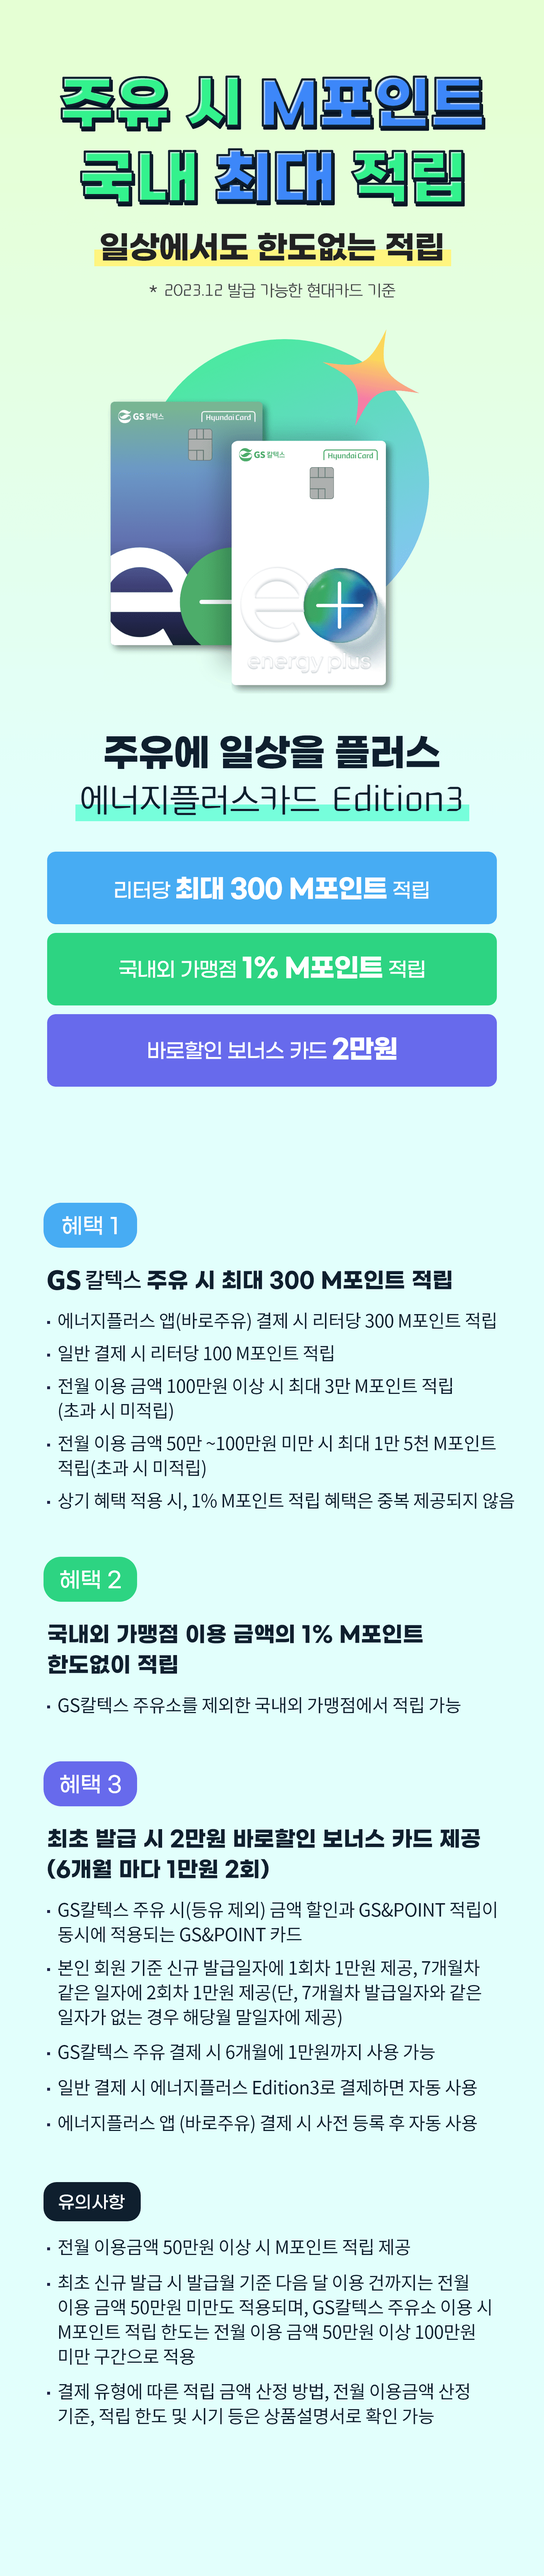
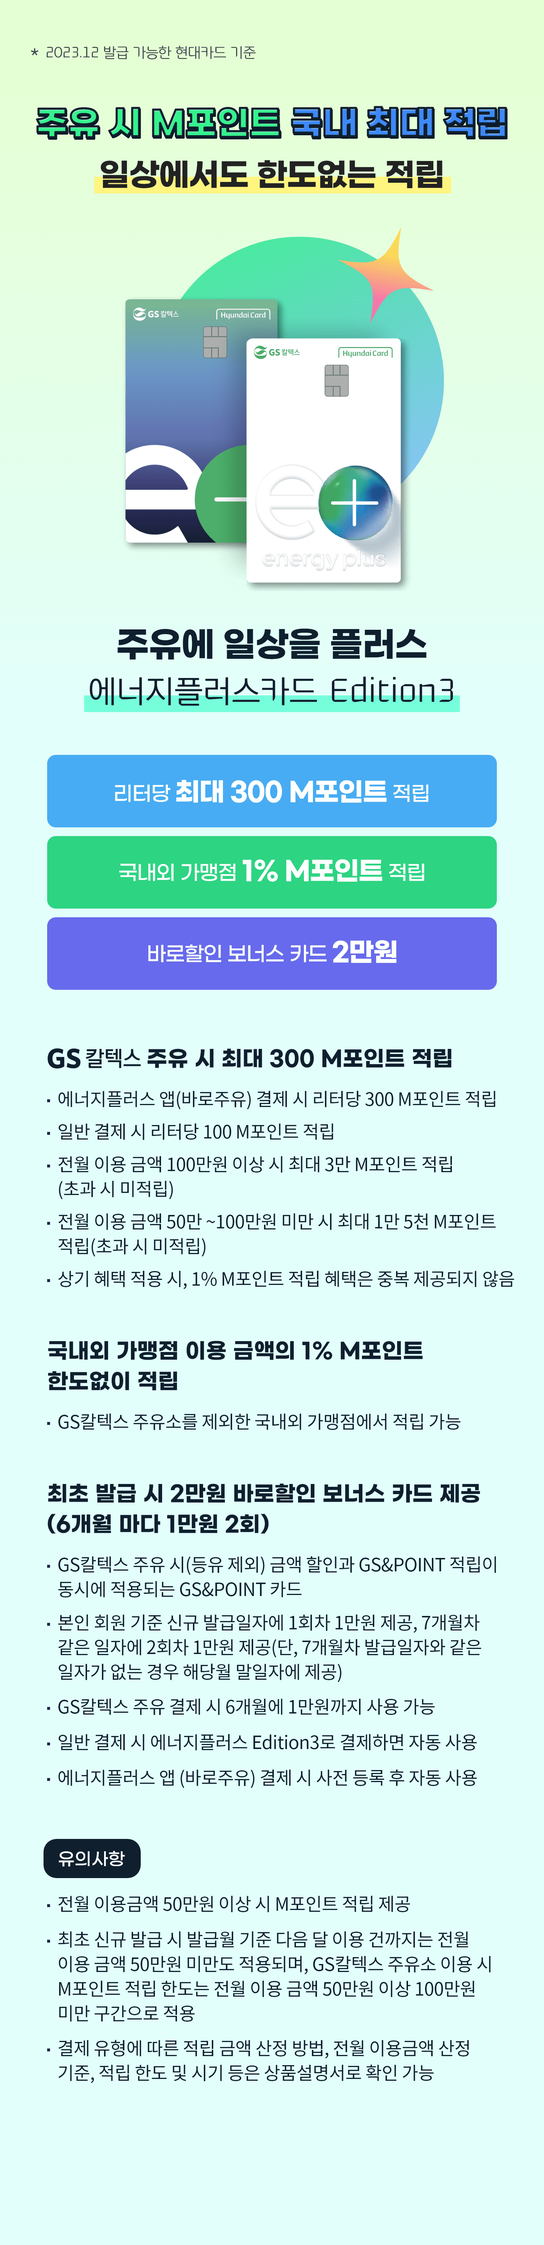
수정요청(이미지,문구)

Changed region(s): [[0.0613, 0.0, 0.9507, 0.9351]]

diff --git a/webapp/src/html/event-ep-card-edition3-promotion.html b/webapp/src/html/event-ep-card-edition3-promotion.html
@@ -38,6 +38,7 @@
                 </div>
             </div>
         </section>
+        <!-- 아코디언 -->
         <script>
             var acc = document.getElementsByClassName("accordion-title");
             var i;
@@ -57,7 +58,7 @@
         <section class="bottom">
             <p class="title"><img src="./images/event_cardedition3_bottom_title.png" alt="확인해 주세요!"></p>
             <ul class="notice">
-                <li>에너지플러스카드 Edition2 연회비 : <br>국내전용/국내외겸용(VISA Platinum) 3만원</li>
+                <li>에너지플러스카드 Edition3 연회비 : <br>국내전용/국내외겸용(VISA Platinum) 3만원</li>
                 <li class="bold">카드 이용대금 연체 시 약정금리+연체가산 금리 3%의 연체이자율이 적용됩니다.<br>(회원별, 이용 상품별 차등 적용/법정 최고 금리 20% 이내)</li>
                 <li class="bold">단, 연체 발생시점에 약정금리가 없는 경우 아래와 같이 적용
                     <ul class="notice depth2">
@@ -77,8 +78,8 @@
                 <li>GS칼텍스는 금융관계법률에 따라 현대카드와 위탁계약을 체결한 금융상품판매대리·중개업자입니다.</li>
                 <li>자세한 내용 및 이용 조건은 카드 신청 전 현대카드 홈페이지 및 상품설명서, 약관 참고</li>
                 <li>현대카드 고객센터(1577-6000)</li>
-                <li>준법감시 심의필 제 231130-032호<br>(2023.11.30~2024.11.29)</li>
-                <li>여신금융협회 심의필 제2023-C1h-13322호<br>(2023.12.07~2024.12.06)</li>
+                <li>준법감시 심의필 제 231215-007호<br>(2023.12.15 ~ 2024.12.14)</li>
+                <li>여신금융협회 심의필 제2023-C1h-13795호<br>(2023.12.20 ~ 2024.12.19)</li>
         </section>
         <div class="event-button-fixed">
             <a href="#" class="event-button"><img src="./images/event_cardedition3_promotion_btn.png" alt=""></a>

diff --git a/webapp/src/html/event-ep-card-edition3-promotion-modal.html b/webapp/src/html/event-ep-card-edition3-promotion-modal.html
@@ -58,7 +58,7 @@
         <section class="bottom">
             <p class="title"><img src="./images/event_cardedition3_bottom_title.png" alt="확인해 주세요!"></p>
             <ul class="notice">
-                <li>에너지플러스카드 Edition2 연회비 : <br>국내전용/국내외겸용(VISA Platinum) 3만원</li>
+                <li>에너지플러스카드 Edition3 연회비 : <br>국내전용/국내외겸용(VISA Platinum) 3만원</li>
                 <li class="bold">카드 이용대금 연체 시 약정금리+연체가산 금리 3%의 연체이자율이 적용됩니다.<br>(회원별, 이용 상품별 차등 적용/법정 최고 금리 20% 이내)</li>
                 <li class="bold">단, 연체 발생시점에 약정금리가 없는 경우 아래와 같이 적용
                     <ul class="notice depth2">
@@ -78,8 +78,8 @@
                 <li>GS칼텍스는 금융관계법률에 따라 현대카드와 위탁계약을 체결한 금융상품판매대리·중개업자입니다.</li>
                 <li>자세한 내용 및 이용 조건은 카드 신청 전 현대카드 홈페이지 및 상품설명서, 약관 참고</li>
                 <li>현대카드 고객센터(1577-6000)</li>
-                <li>준법감시 심의필 제 231130-032호<br>(2023.11.30~2024.11.29)</li>
-                <li>여신금융협회 심의필 제2023-C1h-13322호<br>(2023.12.07~2024.12.06)</li>
+                <li>준법감시 심의필 제 231215-007호<br>(2023.12.15 ~ 2024.12.14)</li>
+                <li>여신금융협회 심의필 제2023-C1h-13795호<br>(2023.12.20 ~ 2024.12.19)</li>
         </section>
         <div class="event-button-fixed">
             <a href="#" class="event-button"><img src="./images/event_cardedition3_promotion_btn.png" alt=""></a>

diff --git a/webapp/src/html/include/bottom-sheet-event-ep-card-edition3-promotion.html b/webapp/src/html/include/bottom-sheet-event-ep-card-edition3-promotion.html
@@ -77,7 +77,7 @@
 
 
                     <h4 class="list-tit type2">전월 이용금액 합산 제외 기준</h4>
-                    <ul>
+                    <ul class="list-dot">
                         <li>GS칼텍스 주유소 이용 금액(고급유/휘발유/경유/등유)</li>
                         <li>장기카드대출(카드론), 단기카드대출(현금서비스), 연회비, 제수수료, 이자, 공과금 납부액(국세, 관세, 지방세, 지방세외수입, 상하수도요금, 벌과금, 과태료, 인지세, 송달료, 민원 발급 수수료 등 국가 또는 공공단체가 부과하는 부담금), 전기 요금, 도시가스 요금, 아파트 관리비, 사립유치원 교육비 납입금, 초·중·고교 학교 납입금, 대학·대학원 등록금 납부 결제건, 자동납부서비스 이용 수수료, 상품권 등 현금성 유가증권 구매 및 선불 카드 충전 금액, 건강보험, 국민연금, 고용보험, 산재보험 및 장애인 고용 부담금, 고속도로 통행 요금, 후불하이패스 카드 이용 금액, 고속버스 (차내 단말기 및 고속버스 앱 결제 포함), 무이자 할부 이용 금액</li>
                     </ul>
@@ -100,8 +100,6 @@
                         </li>
                         <li>그 외 국내외 가맹점: 제한 없음</li>
                     </ul>
-
-
 
                     <h4 class="list-tit type2">기타 기준</h4>
                     <ul class="list-dot">

diff --git a/webapp/src/sass/ep/_ep-event.sass b/webapp/src/sass/ep/_ep-event.sass
@@ -5298,6 +5298,7 @@
                         content : '·'
                         display : inline-block
                         text-align : center
+                        width : 15px
                         margin-left : -15px
                 &.depth2
                     li::before
@@ -5338,10 +5339,10 @@
                         height : 23px
                         background : url(#{$image-path}event_cardedition3_promotion_body_title_arrow.png) no-repeat
                         background-size : contain
-                        transform : rotateZ(0)
+                        transform : rotateZ(180deg)
                         transition : transform 0.3s ease-out
                     &.active::after
-                        transform : rotateZ(180deg)
+                        transform : rotateZ(0deg)
 
                 .panel
                     margin : 0
@@ -5411,8 +5412,10 @@
             transform : scale(0.9)
             transform-origin : 0 50%
         &::after
-            transform : scale(0.8)
-            transform-origin : 100% 50%
+            top : 21px
+            right : 25px
+            width : 18px
+            height : 18px
 
 @media (min-width: 750px)
     .event-container.edition3-promotion .body .event-accordion

diff --git a/webapp/src/html/event-ep-card-edition3.html b/webapp/src/html/event-ep-card-edition3.html
@@ -19,7 +19,7 @@
         <section class="bottom">
             <p class="title"><img src="./images/event_cardedition3_bottom_title.png" alt="확인해 주세요!"></p>
             <ul class="notice">
-                <li>에너지플러스카드 Edition2 연회비 : <br>국내전용/국내외겸용(VISA Platinum) 3만원</li>
+                <li>에너지플러스카드 Edition3 연회비 : <br>국내전용/국내외겸용(VISA Platinum) 3만원</li>
                 <li class="bold">카드 이용대금 연체 시 약정금리+연체가산 금리 3%의 연체이자율이 적용됩니다.<br>(회원별, 이용 상품별 차등 적용/법정 최고 금리 20% 이내)</li>
                 <li class="bold">단, 연체 발생시점에 약정금리가 없는 경우 아래와 같이 적용
                     <ul class="notice depth2">
